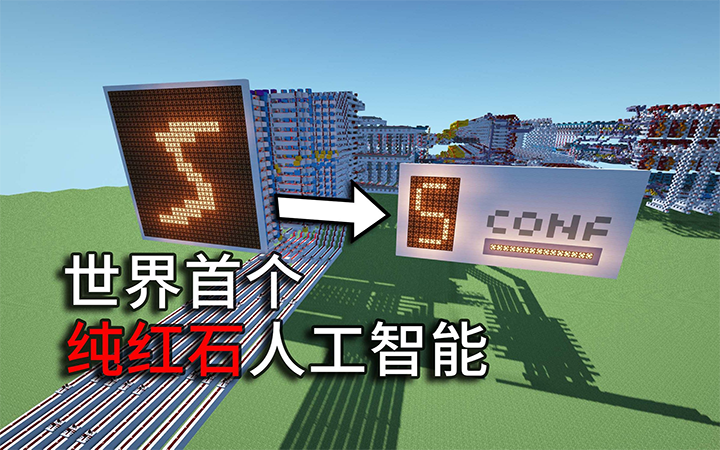
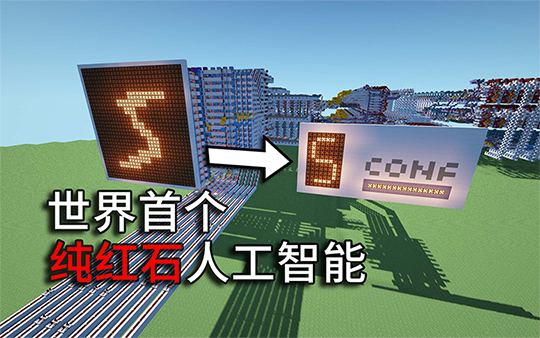
.

diff --git a/css/style.css b/css/style.css
@@ -528,6 +528,11 @@ body.light hr.separator {
   border-top: 5px solid #ffb400;
 }
 
+.home .post-thumb img {
+  display: block; /* 将图片设置为块级元素，使它能够使用width和height属性 */
+  width: 100%; /* 图片宽度占满父级盒子的100% */
+  height: auto; /* 根据宽度等比缩放图片的高度 */
+}
 
 @media (min-width: 1101px) {
   /*===================home页面最宽==================*/
